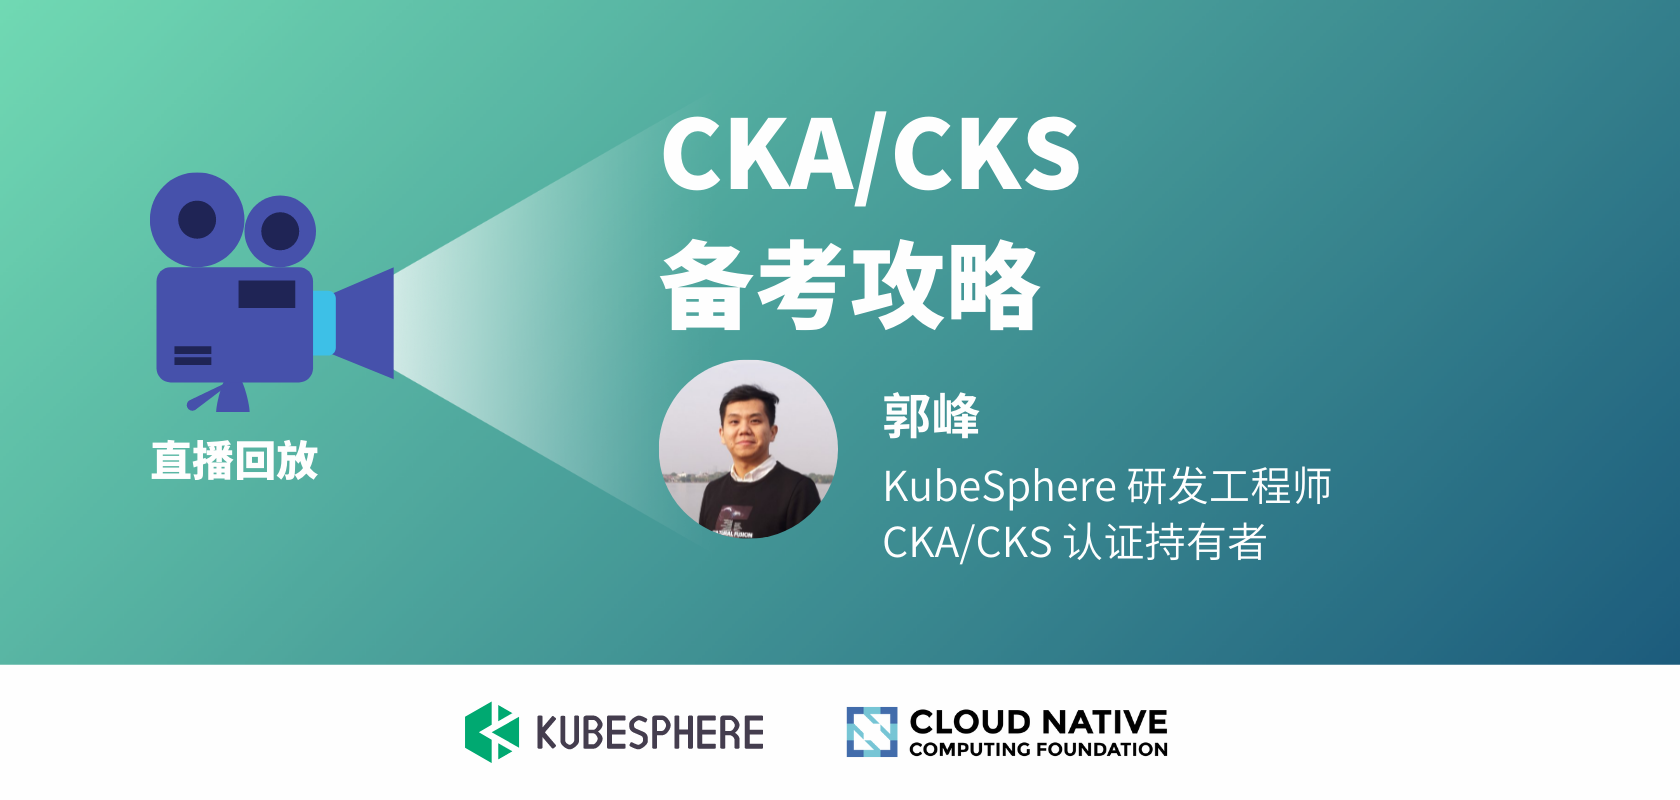
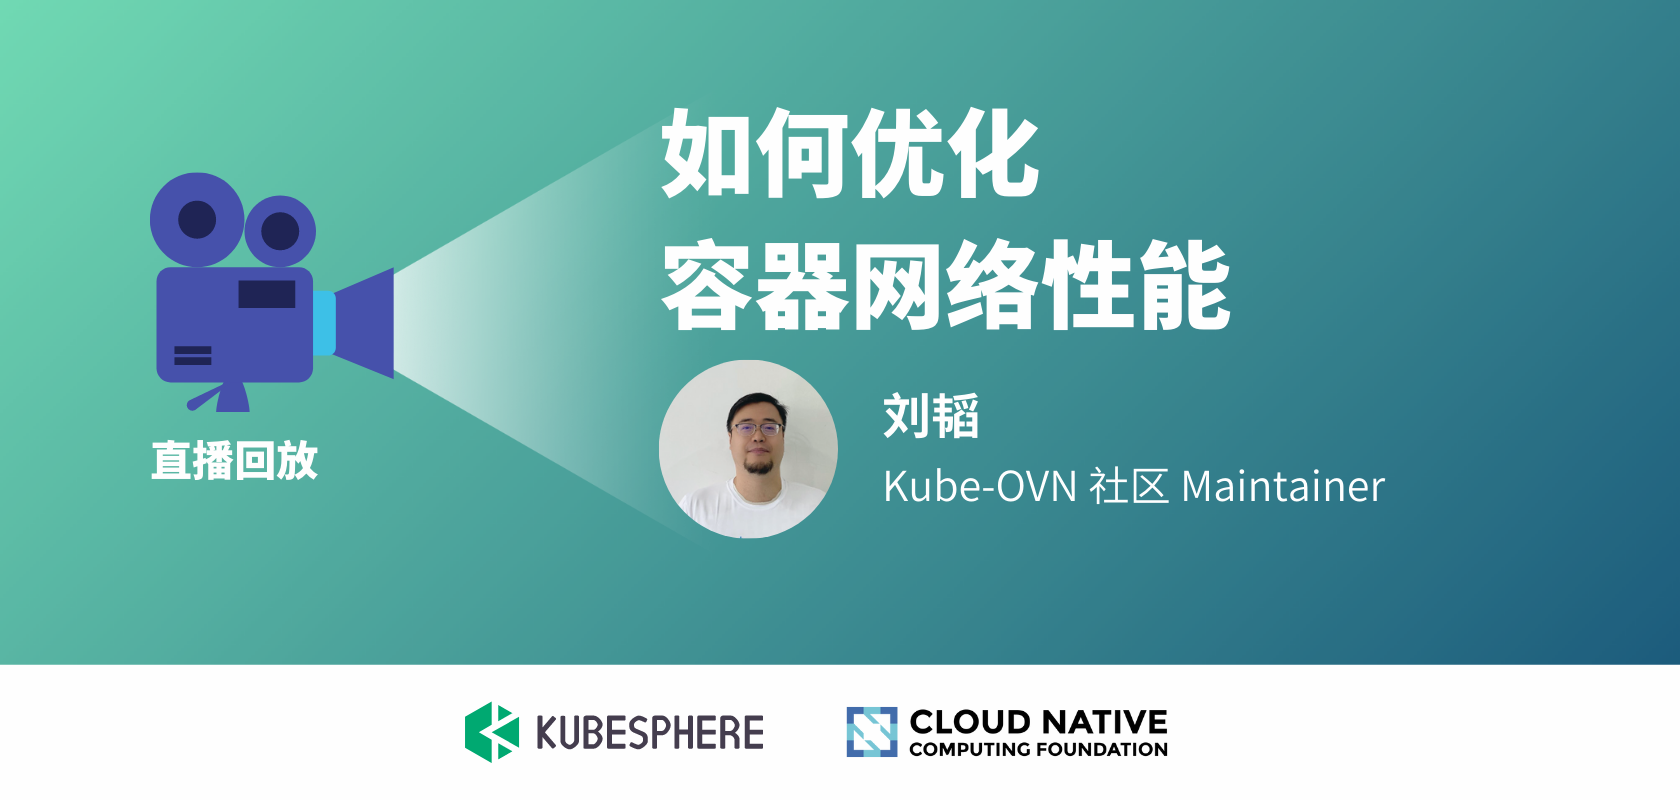
update the page of live

diff --git a/content/zh/live/go1104-live.md b/content/zh/live/go1104-live.md
@@ -1,0 +1,52 @@
+---
+title: 海量并发微服务框架设计
+description: 本次分享将详细讲解微服务治理的工程实践和研发效率工具的建设。通过这次分享，你可以从整体上理解一个高并发的微服务框架的设计思路，并且可以把很多工程实践思路带入到平时工作中，从而得到更好的服务治理能力和更高的开发效率。
+keywords: KubeSphere, Kubernetes, Microservice
+css: scss/live-detail.scss
+
+section1:
+  snapshot: 
+  videoUrl: 
+  type: iframe
+  time: 2021-11-04 20:00-21:00
+  timeIcon: /images/live/clock.svg
+  base: 线上
+  baseIcon: /images/live/base.svg
+---
+## 分享内容简介
+
+本次分享将从以下几个方面详细讲解微服务治理的工程实践和研发效率工具的建设：
+- 微服务如何拆分数据
+- K8s 内外的服务发现机制
+- 自适应负载均衡
+- 如何应对突发流量尖峰
+- 海量并发缓存如何设计
+- 微服务可观测性
+- 极致的效率工具建设
+
+通过这次分享，你可以从整体上理解一个高并发的微服务框架的设计思路，并且可以把很多工程实践思路带入到平时工作中，从而得到更好的服务治理能力和更高的开发效率。
+
+## 讲师简介
+
+万俊峰，go-zero 作者
+
+个人简介：
+万俊峰毕业后先后就职于两家美企，从事高性能计算和互联网后端研发工作。2007 年开始合伙创业，并任职 CTO，他拥有 11 年的社交 App 创业和并购经验。之后于 2018 年加入晓黑板，担任 CTO。
+他热爱开源技术，拥有 20 年的开发、微服务架构经验以及十多年的技术团队管理经验。在微服务架构、分布式系统、机器学习模型上有深入研究。
+
+他还是持续学习者，主张系统和架构尽可能保持简单，工具大于文档和约定的理念。他经常参加业界的技术大会，是 ArchSummit 全球架构师峰会的明星讲师，GopherChina 大会的主持人和金牌讲师，QCon+ Go 专题出品人&讲师，也是腾讯云开发者大会的讲师。
+
+
+## 分享大纲
+
+![](https://pek3b.qingstor.com/kubesphere-community/images/go1104-live.png)
+
+## 直播时间
+
+2021 年 10 月 21 日 20:00-21:00
+
+## 直播地址
+
+B 站  http://live.bilibili.com/22580654
+
+

diff --git a/content/zh/live/_index.md b/content/zh/live/_index.md
@@ -10,22 +10,29 @@ section1:
 
 section2:
   image: /images/live/cloudnative-live-cover.png
-  url: ./ckacks1021-live/
+  url: ./kubeovn1028-live/
 
   notice:
-    title: 如何优化容器网络性能
+    title: 海量并发微服务框架设计
     tag: 预告
-    time: 2021 年 10 月 28 日晚 8 点
+    time: 2021 年 11 月 04 日晚 8 点
     base: 线上
-    url: ./kubeovn1028-live/
+    url: ./go1104-live/
 
   over:
-    title: Kubebuilder 使用简介
-    url: ./uisee0923-live/
+    title: CKA/CKS 备考攻略
+    url: ./ckacks1021-live/
     tag: 结束
 
 section3:
   videos:
+    - title: 如何优化容器网络性能
+      link: ./kubeovn1028-live/
+      snapshot: https://pek3b.qingstor.com/kubesphere-community/images/kubeovn1028-live-cover.png
+      type: iframe
+      createTime: 2021.10.28
+      group: 直播回放
+
     - title: JuiceFS CSI Driver 的最佳实践
       link: ./hangzhou1023-juicefs/
       snapshot: https://pek3b.qingstor.com/kubesphere-community/images/hangzhou1023-juicefs-cover.png

diff --git a/content/zh/live/kubeovn1028-live.md b/content/zh/live/kubeovn1028-live.md
@@ -6,7 +6,7 @@ css: scss/live-detail.scss
 
 section1:
   snapshot: 
-  videoUrl: 
+  videoUrl: //player.bilibili.com/player.html?aid=591309774&bvid=BV17q4y1R7jk&cid=432621951&page=1&high_quality=1
   type: iframe
   time: 2021-10-28 20:00-21:00
   timeIcon: /images/live/clock.svg
@@ -38,4 +38,6 @@ section1:
 
 B 站  http://live.bilibili.com/22580654
 
+## PPT 下载
 
+可扫描官网底部二维码，关注 「KubeSphere云原生」公众号，后台回复 `20211028` 即可下载 PPT。

diff --git a/content/zh/live/hangzhou1023-juicefs.md b/content/zh/live/hangzhou1023-juicefs.md
@@ -26,4 +26,4 @@ JuiceFS 基于云原生环境的基础设施和软件设计，可以简单轻松
 
 ## 下载 PPT
 
-可扫描官网底部二维码，关注 「KubeSphere 云原生」公众号，后台回复 “云原生杭州1023” 即可下载 PPT。
+可扫描官网底部二维码，关注 「KubeSphere云原生」公众号，后台回复 “云原生杭州1023” 即可下载 PPT。

diff --git a/content/zh/live/mysql-shanghai.md b/content/zh/live/mysql-shanghai.md
@@ -30,7 +30,7 @@ RadonDB Orgnization 发起者，长期从事分布式数据库内核研发，喜
 
 ## 下载 PPT
 
-可扫描官网底部二维码，关注 「KubeSphere 云原生」公众号，后台回复 “2021 上海” 即可下载 PPT。
+可扫描官网底部二维码，关注 「KubeSphere云原生」公众号，后台回复 “2021 上海” 即可下载 PPT。
 
 
 

diff --git a/content/zh/live/multicluster-shanghai.md b/content/zh/live/multicluster-shanghai.md
@@ -30,6 +30,6 @@ KubeSphere 平台研发工程师, contributor of kubernetes-sigs, 目前负责 K
 
 ## 下载 PPT
 
-可扫描官网底部二维码，关注 「KubeSphere 云原生」公众号，后台回复 “2021 上海” 即可下载 PPT。
+可扫描官网底部二维码，关注 「KubeSphere云原生」公众号，后台回复 “2021 上海” 即可下载 PPT。
 
 

diff --git a/content/zh/live/mysql-hangzhou.md b/content/zh/live/mysql-hangzhou.md
@@ -30,6 +30,6 @@ RadonDB Orgnization 发起者，长期从事分布式数据库内核研发，喜
 
 ## 下载 PPT
 
-可扫描官网底部二维码，关注 「KubeSphere 云原生」公众号，后台回复 “2021 杭州” 即可下载 PPT。
+可扫描官网底部二维码，关注 「KubeSphere云原生」公众号，后台回复 “2021 杭州” 即可下载 PPT。
 
 

diff --git a/content/zh/live/ray-shanghai.md b/content/zh/live/ray-shanghai.md
@@ -30,6 +30,6 @@ Kick-off 将介绍当前云原生生态的发展趋势，解读 KubeSphere 3.1.0
 
 ## 下载 PPT
 
-可扫描官网底部二维码，关注 「KubeSphere 云原生」公众号，后台回复 “2021 上海” 即可下载 PPT。
+可扫描官网底部二维码，关注 「KubeSphere云原生」公众号，后台回复 “2021 上海” 即可下载 PPT。
 
 

diff --git a/content/zh/live/multicluster-chengdu.md b/content/zh/live/multicluster-chengdu.md
@@ -30,5 +30,5 @@ Kubernetes 生态已经成为云原生事实标准，在万物上云的时代必
 
 ## 下载 PPT
 
-可扫描官网底部二维码，关注 「KubeSphere 云原生」公众号，后台回复 “2021 成都” 即可下载 PPT。
+可扫描官网底部二维码，关注 「KubeSphere云原生」公众号，后台回复 “2021 成都” 即可下载 PPT。
 
